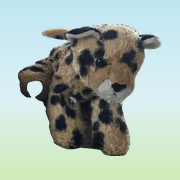
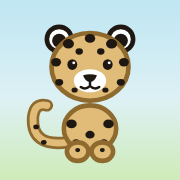
Draw the four toy friends as cartoon characters and use them across the game
Claude-Session: https://claude.ai/code/session_01LKDK9gHduBwxjC8Grk7QEw

diff --git a/games/app/index.html b/games/app/index.html
@@ -51,8 +51,10 @@ h1,h2{font-family:var(--display);font-weight:800;margin:0;line-height:1.05;text-
 /* home */
 #home{align-items:center;justify-content:center;text-align:center;gap:18px;background:linear-gradient(#BFE6F2,var(--sky) 55%,#CFEBB8)}
 #home .hero{font:88px/1 var(--emoji);white-space:nowrap;width:100%}
-.friends{display:block;margin:0 auto;width:min(100%,470px);height:auto;filter:drop-shadow(0 8px 6px rgba(31,48,68,.22))}
-.babyimg{height:52px;width:auto;max-width:none;display:block;margin-top:-8px;filter:drop-shadow(0 3px 2px rgba(31,48,68,.3))}
+#home .hero img{width:min(23vw,104px);height:min(23vw,104px);vertical-align:bottom}
+#home .hero img.baby{width:min(17vw,78px);height:min(17vw,78px)}
+.fox img.baby{width:50px;height:50px;display:block;margin-top:-6px}
+.summit img{width:46px;height:46px}
 #home h1{font-size:clamp(2.1rem,7.5vw,3.6rem);color:var(--fox-d)}
 #home p{margin:0;color:var(--soft);max-width:24ch}
 .menu{display:grid;grid-template-columns:1fr 1fr;gap:10px;width:min(100%,400px)}
@@ -228,8 +230,8 @@ h1,h2{font-family:var(--display);font-weight:800;margin:0;line-height:1.05;text-
 .vrow .round{width:46px;min-height:46px;font-size:1.1rem}
 .vrow.has{box-shadow:0 0 0 3px var(--leaf) inset}
 .vrow .rec-on{background:#E8556D;color:#fff;box-shadow:0 5px 0 #B73A50}
-img.bear,img.cheetah{width:1em;height:1em;vertical-align:-.14em}
-.tool img.bear,.tool img.cheetah{width:28px;height:28px;vertical-align:middle}
+img.bear,img.cheetah,img.deer,img.baby{width:1em;height:1em;vertical-align:-.14em}
+.tool img.bear,.tool img.cheetah,.tool img.deer,.tool img.baby{width:30px;height:30px;vertical-align:middle}
 .bankp{text-align:center;display:flex;flex-direction:column;align-items:center;gap:12px}
 .bankp h3{margin:0;font-size:1.4rem}
 .jar{display:flex;flex-wrap:wrap;justify-content:center;gap:6px;max-width:420px;font:34px/1 var(--emoji)}
@@ -244,7 +246,7 @@ img.bear,img.cheetah{width:1em;height:1em;vertical-align:-.14em}
 <body>
 <section class="screen" id="home">
   <button class="btn round" id="gear" aria-label="Settings for grown-ups">⚙</button>
-  <div class="hero" aria-hidden="true"><img class="friends" id="friends" src="friends.webp" alt=""></div>
+  <div class="hero" aria-hidden="true"><img class="cheetah" alt=""><img class="bear" alt=""><img class="deer" alt=""><img class="baby" alt=""></div>
   <h1>Baby Cheetah</h1>
   <p>Climb the trail. Play a game at every stop.</p>
   <div class="menu">
@@ -351,29 +353,43 @@ const sample=(a,n)=>shuffle(a).slice(0,n);
 const wait=ms=>new Promise(r=>setTimeout(r,ms));
 
 /* the two buddies are drawn here: a spotted cheetah and a white bear with light brown accents */
-/* the real baby cheetah, cut out of a photo of the toy: the trail marker */
[1 lines of base64/hex data omitted]
 const BEAR='bear';
 const CHEETAH='cheetah';
 /* each face is a list of shapes: ['e', cx, cy, rx, ry, fill, outline] or ['p', path, stroke, width], on a 100 x 100 sheet.
    The same list draws the picture on the page and on the game canvases. */
-const SPOT='#9C6A32',CH='#F6C458',CHO='#B5803F';
-const FACES={
- /* a sitting teddy bear: arms, round body with a tummy patch, feet with paw pads, small ears on top, a snout, and a bow */
- bear:[['e',28,66,7,10,'#FFFFFF','#C9A27A'],['e',72,66,7,10,'#FFFFFF','#C9A27A'],['e',50,72,20,19,'#FFFFFF','#C9A27A'],['e',50,74,11.5,12,'#F6E7D3'],
-  ['e',34,89,9.5,9.5,'#FFFFFF','#C9A27A'],['e',66,89,9.5,9.5,'#FFFFFF','#C9A27A'],['e',34,89,5.5,5.5,'#E8CBA8'],['e',66,89,5.5,5.5,'#E8CBA8'],
-  ['e',29,13,8.5,8.5,'#FFFFFF','#C9A27A'],['e',71,13,8.5,8.5,'#FFFFFF','#C9A27A'],['e',29,13,4.5,4.5,'#E8CBA8'],['e',71,13,4.5,4.5,'#E8CBA8'],['e',50,31,27,24,'#FFFFFF','#C9A27A'],
-  ['e',50,39,11,8.5,'#F6E7D3'],['f','M46 33.5Q50 31.8 54 33.5Q53 37.8 50 37.8Q47 37.8 46 33.5Z','#B5835A'],['p','M50 37.8v3M50 40.8q-3.2 3.6-6.2 1M50 40.8q3.2 3.6 6.2 1','#B5835A',1.8],
-  ['e',40,28.5,2.8,2.8,'#A87850'],['e',60,28.5,2.8,2.8,'#A87850'],
-  ['f','M50 55.5L39.5 50.5V60.5ZM50 55.5L60.5 50.5V60.5Z','#DDB98F','#B5835A',1.5],['e',50,55.5,3,3,'#C9A27A']],
- /* a sitting cheetah: curled tail, spotted body, front paws, then the head (drawn large and placed by the 'g' group) */
- cheetah:[['p','M66 84Q90 86 85 62',CHO,8],['p','M66 84Q90 86 85 62',CH,4.5],['e',85,62,3,3,'#8A5A2B'],['e',50,73,18,19,CH,CHO],['e',50,72,9,12,'#FFF4DC'],
-  ['e',36,68,2,2,SPOT],['e',64,68,2,2,SPOT],['e',35,78,2,2,SPOT],['e',65,78,2,2,SPOT],['e',41,90,7.5,6.5,CH,CHO],['e',59,90,7.5,6.5,CH,CHO],
-  ['g',20,-2.6,.6,[['e',24,27,14,14,CH,CHO],['e',76,27,14,14,CH,CHO],['e',24,27,7,7,'#FBE3B0'],['e',76,27,7,7,'#FBE3B0'],['e',50,56,40,36,CH,CHO],
-  ['e',38,31,2.6,2.6,SPOT],['e',50,27,2.6,2.6,SPOT],['e',62,31,2.6,2.6,SPOT],['e',44,38,2.4,2.4,SPOT],['e',56,38,2.4,2.4,SPOT],
-  ['e',19,52,2.6,2.6,SPOT],['e',81,52,2.6,2.6,SPOT],['e',18,63,2.4,2.4,SPOT],['e',82,63,2.4,2.4,SPOT],['e',25,75,2.4,2.4,SPOT],['e',75,75,2.4,2.4,SPOT],
-  ['e',50,70,18,13,'#FFF4DC'],['p','M37 55Q32 65 37 75M63 55Q68 65 63 75','#8A5A2B',3],['e',50,63,6.5,4.5,'#8A5A2B'],['p','M50 67v5M50 72q-6 6-11 1M50 72q6 6 11 1','#8A5A2B',2.5],
-  ['e',34,50,4.5,4.5,'#7A4E24'],['e',66,50,4.5,4.5,'#7A4E24']]]]};
+/* The four friends, drawn from the real toys: Big Cheetah (mustard fur, dark spots, cream ears, brown muzzle, white chin and chest),
+   Teddy (cream and fluffy, big dark-brown nose, bead eyes), Deer (tan, white eye patches and muzzle, wide ears, two little horn nubs)
+   and Baby Cheetah (pale tan, bold black spots, black-and-white ears, curled tail). */
+const INK='#1F1712',CRM='#FFF6E0';
+const nose=(y,c)=>['f',`M45.5 ${y}Q50 ${y-1.6} 54.5 ${y}Q53 ${y+4.4} 50 ${y+4.4}Q47 ${y+4.4} 45.5 ${y}Z`,c],
+  smile=(y,c,w)=>['p',`M50 ${y}v2.4M50 ${y+2.4}q-3 3-6 .8M50 ${y+2.4}q3 3 6 .8`,c,w||1.6],
+  eyes=(x,y,r)=>[['e',50-x,y,r,r*1.08,INK],['e',50+x,y,r,r*1.08,INK],['e',50-x+r*.3,y-r*.35,r*.3,r*.3,'#fff'],['e',50+x+r*.3,y-r*.35,r*.3,r*.3,'#fff']],
+  dots=(c,l)=>l.map(([x,y,r])=>['e',x,y,r,r*.85,c]);
+const FACES=(()=>{const M='#D9A93A',MO='#8A6218',SP='#3B2A1A',F='#EADBC2',FO='#B79D78',T='#C99F68',TO='#8C6A3C',B='#E0BC78',BO='#8F6A2E';
+ return{
+ cheetah:[['p','M66 86Q90 87 87 66',MO,8],['p','M66 86Q90 87 87 66',M,4.5],['e',87,66,3,3,SP],
+  ['e',50,72,19,20,M,MO],['e',50,63,12,9,CRM],...dots(SP,[[35,71,2.8],[65,71,2.8],[37,81,2.4],[63,81,2.4],[50,80,2.2]]),
+  ['e',41,89,7.5,7,M,MO],['e',59,89,7.5,7,M,MO],...dots(SP,[[39,88,1.5],[61,88,1.5]]),
+  ['e',29,13,8,8,CRM,INK],['e',71,13,8,8,CRM,INK],['e',50,32,27,23,M,MO],
+  ...dots(SP,[[38,15,2.6],[50,12.5,2.6],[62,15,2.6],[44,21,2.2],[56,21,2.2],[27,29,2.6],[73,29,2.6],[26,40,2.2],[74,40,2.2],[32,47,2],[68,47,2]]),
+  ['e',50,46.5,10,6,CRM],['e',50,39.5,11.5,7.5,'#B98348'],nose(38.5,INK),smile(42.9,INK),...eyes(13,30,3.4)],
+ bear:[['e',28,66,7.5,10,F,FO],['e',72,66,7.5,10,F,FO],['e',50,72,20,19,F,FO],['e',50,74,11,11,'#F4EAD8'],
+  ['e',34,89,9.5,9,F,FO],['e',66,89,9.5,9,F,FO],['e',34,90,5,4.5,'#DCC6A4'],['e',66,90,5,4.5,'#DCC6A4'],
+  ['e',29,13,8.5,8.5,F,FO],['e',71,13,8.5,8.5,F,FO],['e',29,13,4.5,4.5,'#DCC6A4'],['e',71,13,4.5,4.5,'#DCC6A4'],['e',50,31,27,24,F,FO],
+  ['p','M38 10q3-3 6 0M47 8q3-3 6 0M56 10q3-3 6 0M26 26q-2 3 0 6M74 26q2 3 0 6',FO,1.4],
+  ['e',50,40,12.5,9.5,'#F4EAD8'],['e',50,37,7,5.4,'#4B352B'],['e',48,35.6,1.8,1.1,'#7A5F52'],smile(42.4,'#4B352B'),...eyes(7.5,26.5,2.3)],
+ deer:[['e',33,80,8,10,T,TO],['e',67,80,8,10,T,TO],['e',50,69,16,17,T,TO],['e',50,66,8,9,'#DDBB8A'],
+  ['e',42,84,5.2,12,T,TO],['e',58,84,5.2,12,T,TO],['e',42,95,5.4,3.2,'#6B4A38'],['e',58,95,5.4,3.2,'#6B4A38'],
+  ['f','M31 24Q11 5 2 13Q7 29 29 32Z',T,TO,3],['f','M69 24Q89 5 98 13Q93 29 71 32Z',T,TO,3],['f','M27 24Q14 12 7 15Q11 25 26 28Z','#F3EAF4'],['f','M73 24Q86 12 93 15Q89 25 74 28Z','#F3EAF4'],
+  ['e',44,9,2.6,4,'#B79A78',TO],['e',56,9,2.6,4,'#B79A78',TO],['e',50,31,22,22,T,TO],
+  ['e',39,30,7.5,8.5,'#fff'],['e',61,30,7.5,8.5,'#fff'],['e',50,42,11.5,9,'#fff'],['e',31,40,3,1.8,'#F4C6BC'],['e',69,40,3,1.8,'#F4C6BC'],
+  ['e',50,38,3.8,2.9,'#8A5E48'],smile(40.6,'#8A5E48',1.4),...eyes(10.5,30.5,3.1)],
+ baby:[['p','M35 84Q12 87 13 68Q14 58 22 60',BO,8],['p','M35 84Q12 87 13 68Q14 58 22 60',B,4.5],...dots(INK,[[15,74,1.8],[20,84,1.8]]),
+  ['e',50,75,17,15,B,BO],...dots(INK,[[38,72,3.4],[62,72,3.4],[50,79,3],[41,84,2.4],[59,84,2.4]]),
+  ['e',42,90,7,6,B,BO],['e',58,90,7,6,B,BO],...dots(INK,[[42,89,1.6],[58,89,1.6]]),
+  ['e',30,17,8,8,'#fff',INK],['e',70,17,8,8,'#fff',INK],['e',30,18,4.6,4.6,INK],['e',70,18,4.6,4.6,INK],['e',50,35,25,22,B,BO],
+  ...dots(INK,[[36,20,3.6],[50,16.5,3.4],[64,20,3.6],[28,32,3.2],[72,32,3.2],[43,25,2.4],[57,25,2.4],[30,45,2.6],[70,45,2.6],[40,50,2],[60,50,2]]),
+  ['e',50,44,10.5,7.5,'#fff'],nose(40.5,INK),smile(44.9,INK),...eyes(11.5,33.5,3.2)]}})();
 /* two more shape kinds: ['f', path, fill, outline, width] is a filled path, ['g', x, y, scale, shapes] places a group */
 const svgOps=l=>l.map(o=>o[0]==='e'
   ?`<ellipse cx="${o[1]}" cy="${o[2]}" rx="${o[3]}" ry="${o[4]}" fill="${o[5]}"${o[6]?` stroke="${o[6]}" stroke-width="3"`:''}/>`
@@ -389,10 +405,8 @@ function drawOps(x,l){for(const o of l){
 function drawFace(x,k,cx,cy,size){x.save();x.translate(cx-size/2,cy-size/2);x.scale(size/100,size/100);drawOps(x,FACES[k]);x.restore()}
 const faceEl=k=>{const i=el('img',k);i.src=faceUrl(k);i.alt='';return i};
 const icon=(n,e)=>{n.textContent='';if(FACES[e])n.append(faceEl(e));else n.textContent=e;return n};
-const buddy=n=>{n.append(faceEl(CHEETAH),faceEl(BEAR));return n};
-document.querySelectorAll('img.bear,img.cheetah').forEach(i=>i.src=faceUrl(i.className));
-/* if the photo of the four friends cannot load, show the drawn buddies instead */
-{const f=document.getElementById('friends');if(f)f.onerror=()=>{const h=f.parentNode;h.textContent='';buddy(h)}}
+const buddy=n=>{n.append(faceEl(CHEETAH),faceEl(BEAR),faceEl('deer'),faceEl('baby'));return n};
+document.querySelectorAll('img.bear,img.cheetah,img.deer,img.baby').forEach(i=>i.src=faceUrl(i.className));
 
 /* ---------- saved progress (this device only) ---------- */
 const KEY='little-fox-trail-v1';
@@ -592,7 +606,7 @@ maze(a,d,w,win){const n=[5,6,7,8,9][d],DX=[0,1,0,-1],DY=[-1,0,1,0],open=[...Arra
     x.strokeStyle='#1F3044';x.lineWidth=Math.max(3,s*.08);x.lineCap='round';x.beginPath();
     for(let c=0;c<n*n;c++){const px=(c%n)*s,py=(c/n|0)*s;if(!open[c][0]){x.moveTo(px,py);x.lineTo(px+s,py)}if(!open[c][3]){x.moveTo(px,py);x.lineTo(px,py+s)}
       if(!open[c][1]){x.moveTo(px+s,py);x.lineTo(px+s,py+s)}if(!open[c][2]){x.moveTo(px,py+s);x.lineTo(px+s,py+s)}}x.stroke();
-    x.font=`${s*.6}px serif`;x.textAlign='center';x.textBaseline='middle';drawFace(x,BEAR,(end%n+.5)*s,((end/n|0)+.5)*s,s*.9);drawFace(x,CHEETAH,(pos%n+.5)*s,((pos/n|0)+.5)*s,s*.9)};
+    x.font=`${s*.6}px serif`;x.textAlign='center';x.textBaseline='middle';drawFace(x,BEAR,(end%n+.5)*s,((end/n|0)+.5)*s,s*.9);drawFace(x,'baby',(pos%n+.5)*s,((pos/n|0)+.5)*s,s*.9)};
   const path=(from,to)=>{const prev={[from]:-1},q=[from];while(q.length){const c=q.shift();if(c===to){const p=[];for(let k=c;k!==from;k=prev[k])p.unshift(k);return p}
     for(let k=0;k<4;k++)if(open[c][k]){const nc=c+DX[k]+DY[k]*n;if(!(nc in prev)){prev[nc]=c;q.push(nc)}}}return[]};
   const go=to=>{if(over||to<0||to>=n*n)return;const p=path(pos,to);if(!p.length||p.length>3)return;p.forEach(c=>trail.add(c));pos=to;sfx.note(trail.size);draw();if(pos===end){over=true;win()}};
@@ -715,7 +729,7 @@ function easel(host,{done,studio}){const wrap=el('div','easel'),sheet=el('div','
   tool('Eraser','🧽',()=>{mode='erase';stampRow.hidden=true;mark()}).dataset.m='erase';
   tool('Mirror drawing','🦋',()=>{mirror=!mirror;mark()}).dataset.m='mirror';
   const stampBtn=tool('Stickers',stamp,()=>{if(mode==='stamp'&&stampRow.hidden){mode='pen'}else if(mode==='stamp'){stampRow.hidden=true}else{mode='stamp';stampRow.hidden=false}colorRow.hidden=guideRow.hidden=true;mark()});stampBtn.dataset.m='stamp';
-  [...new Set(['⭐','❤',CHEETAH,BEAR,...S.done.map(stickerOf)])].forEach(e=>{const b=icon(el('button','tool'),e);b.onclick=()=>{stamp=e;icon(stampBtn,e);mode='stamp';stampRow.hidden=true;sfx.tap();mark()};stampRow.append(b)});
+  [...new Set(['⭐','❤',CHEETAH,BEAR,'deer','baby',...S.done.map(stickerOf)])].forEach(e=>{const b=icon(el('button','tool'),e);b.onclick=()=>{stamp=e;icon(stampBtn,e);mode='stamp';stampRow.hidden=true;sfx.tap();mark()};stampRow.append(b)});
   tool('Undo','↩',()=>{const u=undo.pop();if(u)x.putImageData(u,0,0)});
   tool('Clear the page','🗑',()=>{snap();x.fillStyle='#fff';x.fillRect(0,0,cv.width,cv.height)});
   let doneBtn=null;
@@ -756,7 +770,7 @@ function openMap(){show('map');const STEP=104,H=N*STEP+170,y=i=>H-90-i*STEP,xp=t
   for(let i=0;i<N;i++){const t=WORLDS[i>>3].types[i&7],b=el('button','node',S.done.includes(i)?stickerOf(i):TYPES[t]),lock=i>cur&&!S.open;
     b.style.left=xp(i)+'%';b.style.top=y(i)+'px';b.setAttribute('aria-label',`Stop ${i+1}: ${NAMES[t]}`);
     if(S.done.includes(i))b.classList.add('done');if(lock){b.classList.add('lock');b.disabled=true}
-    if(i===cur){b.classList.add('cur');{const m=el('img','babyimg');m.src=BABY;m.alt='';const f=el('span','fox');f.append(m);b.append(f)}}
+    if(i===cur){b.classList.add('cur');{const f=el('span','fox');f.append(faceEl('baby'));b.append(f)}}
     b.onclick=()=>{sfx.tap();startLevel(i)};T.append(b)}
   $('#starCount').textContent='⭐ '+avail();
   const sc=$('#mapScroll');sc.scrollTop=y(Math.min(cur,N-1))-sc.clientHeight/2}
@@ -935,7 +949,7 @@ if(hot&&hot.ready)hot.ready(boot);else boot((hot&&hot.data)||{});
 (function(){
   if(!('serviceWorker' in navigator)||!/^https?:/.test(location.protocol))return;
   navigator.serviceWorker.register('sw.js').catch(function(){});
-  var MINE='72cfee8c7b',last=0;
+  var MINE='a924c8fa55',last=0;
   function check(){
     if(Date.now()-last<60000)return;last=Date.now();
     fetch('version.json?t='+Date.now(),{cache:'no-store'}).then(function(r){return r.json()}).then(function(j){

diff --git a/games/little-fox-trail.html b/games/little-fox-trail.html
@@ -37,8 +37,10 @@ h1,h2{font-family:var(--display);font-weight:800;margin:0;line-height:1.05;text-
 /* home */
 #home{align-items:center;justify-content:center;text-align:center;gap:18px;background:linear-gradient(#BFE6F2,var(--sky) 55%,#CFEBB8)}
 #home .hero{font:88px/1 var(--emoji);white-space:nowrap;width:100%}
-.friends{display:block;margin:0 auto;width:min(100%,470px);height:auto;filter:drop-shadow(0 8px 6px rgba(31,48,68,.22))}
-.babyimg{height:52px;width:auto;max-width:none;display:block;margin-top:-8px;filter:drop-shadow(0 3px 2px rgba(31,48,68,.3))}
+#home .hero img{width:min(23vw,104px);height:min(23vw,104px);vertical-align:bottom}
+#home .hero img.baby{width:min(17vw,78px);height:min(17vw,78px)}
+.fox img.baby{width:50px;height:50px;display:block;margin-top:-6px}
+.summit img{width:46px;height:46px}
 #home h1{font-size:clamp(2.1rem,7.5vw,3.6rem);color:var(--fox-d)}
 #home p{margin:0;color:var(--soft);max-width:24ch}
 .menu{display:grid;grid-template-columns:1fr 1fr;gap:10px;width:min(100%,400px)}
@@ -214,8 +216,8 @@ h1,h2{font-family:var(--display);font-weight:800;margin:0;line-height:1.05;text-
 .vrow .round{width:46px;min-height:46px;font-size:1.1rem}
 .vrow.has{box-shadow:0 0 0 3px var(--leaf) inset}
 .vrow .rec-on{background:#E8556D;color:#fff;box-shadow:0 5px 0 #B73A50}
-img.bear,img.cheetah{width:1em;height:1em;vertical-align:-.14em}
-.tool img.bear,.tool img.cheetah{width:28px;height:28px;vertical-align:middle}
+img.bear,img.cheetah,img.deer,img.baby{width:1em;height:1em;vertical-align:-.14em}
+.tool img.bear,.tool img.cheetah,.tool img.deer,.tool img.baby{width:30px;height:30px;vertical-align:middle}
 .bankp{text-align:center;display:flex;flex-direction:column;align-items:center;gap:12px}
 .bankp h3{margin:0;font-size:1.4rem}
 .jar{display:flex;flex-wrap:wrap;justify-content:center;gap:6px;max-width:420px;font:34px/1 var(--emoji)}
@@ -228,7 +230,7 @@ img.bear,img.cheetah{width:1em;height:1em;vertical-align:-.14em}
 
 <section class="screen" id="home">
   <button class="btn round" id="gear" aria-label="Settings for grown-ups">⚙</button>
-  <div class="hero" aria-hidden="true"><img class="friends" id="friends" src="friends.webp" alt=""></div>
+  <div class="hero" aria-hidden="true"><img class="cheetah" alt=""><img class="bear" alt=""><img class="deer" alt=""><img class="baby" alt=""></div>
   <h1>Baby Cheetah</h1>
   <p>Climb the trail. Play a game at every stop.</p>
   <div class="menu">
@@ -335,29 +337,43 @@ const sample=(a,n)=>shuffle(a).slice(0,n);
 const wait=ms=>new Promise(r=>setTimeout(r,ms));
 
 /* the two buddies are drawn here: a spotted cheetah and a white bear with light brown accents */
-/* the real baby cheetah, cut out of a photo of the toy: the trail marker */
[1 lines of base64/hex data omitted]
 const BEAR='bear';
 const CHEETAH='cheetah';
 /* each face is a list of shapes: ['e', cx, cy, rx, ry, fill, outline] or ['p', path, stroke, width], on a 100 x 100 sheet.
    The same list draws the picture on the page and on the game canvases. */
-const SPOT='#9C6A32',CH='#F6C458',CHO='#B5803F';
-const FACES={
- /* a sitting teddy bear: arms, round body with a tummy patch, feet with paw pads, small ears on top, a snout, and a bow */
- bear:[['e',28,66,7,10,'#FFFFFF','#C9A27A'],['e',72,66,7,10,'#FFFFFF','#C9A27A'],['e',50,72,20,19,'#FFFFFF','#C9A27A'],['e',50,74,11.5,12,'#F6E7D3'],
-  ['e',34,89,9.5,9.5,'#FFFFFF','#C9A27A'],['e',66,89,9.5,9.5,'#FFFFFF','#C9A27A'],['e',34,89,5.5,5.5,'#E8CBA8'],['e',66,89,5.5,5.5,'#E8CBA8'],
-  ['e',29,13,8.5,8.5,'#FFFFFF','#C9A27A'],['e',71,13,8.5,8.5,'#FFFFFF','#C9A27A'],['e',29,13,4.5,4.5,'#E8CBA8'],['e',71,13,4.5,4.5,'#E8CBA8'],['e',50,31,27,24,'#FFFFFF','#C9A27A'],
-  ['e',50,39,11,8.5,'#F6E7D3'],['f','M46 33.5Q50 31.8 54 33.5Q53 37.8 50 37.8Q47 37.8 46 33.5Z','#B5835A'],['p','M50 37.8v3M50 40.8q-3.2 3.6-6.2 1M50 40.8q3.2 3.6 6.2 1','#B5835A',1.8],
-  ['e',40,28.5,2.8,2.8,'#A87850'],['e',60,28.5,2.8,2.8,'#A87850'],
-  ['f','M50 55.5L39.5 50.5V60.5ZM50 55.5L60.5 50.5V60.5Z','#DDB98F','#B5835A',1.5],['e',50,55.5,3,3,'#C9A27A']],
- /* a sitting cheetah: curled tail, spotted body, front paws, then the head (drawn large and placed by the 'g' group) */
- cheetah:[['p','M66 84Q90 86 85 62',CHO,8],['p','M66 84Q90 86 85 62',CH,4.5],['e',85,62,3,3,'#8A5A2B'],['e',50,73,18,19,CH,CHO],['e',50,72,9,12,'#FFF4DC'],
-  ['e',36,68,2,2,SPOT],['e',64,68,2,2,SPOT],['e',35,78,2,2,SPOT],['e',65,78,2,2,SPOT],['e',41,90,7.5,6.5,CH,CHO],['e',59,90,7.5,6.5,CH,CHO],
-  ['g',20,-2.6,.6,[['e',24,27,14,14,CH,CHO],['e',76,27,14,14,CH,CHO],['e',24,27,7,7,'#FBE3B0'],['e',76,27,7,7,'#FBE3B0'],['e',50,56,40,36,CH,CHO],
-  ['e',38,31,2.6,2.6,SPOT],['e',50,27,2.6,2.6,SPOT],['e',62,31,2.6,2.6,SPOT],['e',44,38,2.4,2.4,SPOT],['e',56,38,2.4,2.4,SPOT],
-  ['e',19,52,2.6,2.6,SPOT],['e',81,52,2.6,2.6,SPOT],['e',18,63,2.4,2.4,SPOT],['e',82,63,2.4,2.4,SPOT],['e',25,75,2.4,2.4,SPOT],['e',75,75,2.4,2.4,SPOT],
-  ['e',50,70,18,13,'#FFF4DC'],['p','M37 55Q32 65 37 75M63 55Q68 65 63 75','#8A5A2B',3],['e',50,63,6.5,4.5,'#8A5A2B'],['p','M50 67v5M50 72q-6 6-11 1M50 72q6 6 11 1','#8A5A2B',2.5],
-  ['e',34,50,4.5,4.5,'#7A4E24'],['e',66,50,4.5,4.5,'#7A4E24']]]]};
+/* The four friends, drawn from the real toys: Big Cheetah (mustard fur, dark spots, cream ears, brown muzzle, white chin and chest),
+   Teddy (cream and fluffy, big dark-brown nose, bead eyes), Deer (tan, white eye patches and muzzle, wide ears, two little horn nubs)
+   and Baby Cheetah (pale tan, bold black spots, black-and-white ears, curled tail). */
+const INK='#1F1712',CRM='#FFF6E0';
+const nose=(y,c)=>['f',`M45.5 ${y}Q50 ${y-1.6} 54.5 ${y}Q53 ${y+4.4} 50 ${y+4.4}Q47 ${y+4.4} 45.5 ${y}Z`,c],
+  smile=(y,c,w)=>['p',`M50 ${y}v2.4M50 ${y+2.4}q-3 3-6 .8M50 ${y+2.4}q3 3 6 .8`,c,w||1.6],
+  eyes=(x,y,r)=>[['e',50-x,y,r,r*1.08,INK],['e',50+x,y,r,r*1.08,INK],['e',50-x+r*.3,y-r*.35,r*.3,r*.3,'#fff'],['e',50+x+r*.3,y-r*.35,r*.3,r*.3,'#fff']],
+  dots=(c,l)=>l.map(([x,y,r])=>['e',x,y,r,r*.85,c]);
+const FACES=(()=>{const M='#D9A93A',MO='#8A6218',SP='#3B2A1A',F='#EADBC2',FO='#B79D78',T='#C99F68',TO='#8C6A3C',B='#E0BC78',BO='#8F6A2E';
+ return{
+ cheetah:[['p','M66 86Q90 87 87 66',MO,8],['p','M66 86Q90 87 87 66',M,4.5],['e',87,66,3,3,SP],
+  ['e',50,72,19,20,M,MO],['e',50,63,12,9,CRM],...dots(SP,[[35,71,2.8],[65,71,2.8],[37,81,2.4],[63,81,2.4],[50,80,2.2]]),
+  ['e',41,89,7.5,7,M,MO],['e',59,89,7.5,7,M,MO],...dots(SP,[[39,88,1.5],[61,88,1.5]]),
+  ['e',29,13,8,8,CRM,INK],['e',71,13,8,8,CRM,INK],['e',50,32,27,23,M,MO],
+  ...dots(SP,[[38,15,2.6],[50,12.5,2.6],[62,15,2.6],[44,21,2.2],[56,21,2.2],[27,29,2.6],[73,29,2.6],[26,40,2.2],[74,40,2.2],[32,47,2],[68,47,2]]),
+  ['e',50,46.5,10,6,CRM],['e',50,39.5,11.5,7.5,'#B98348'],nose(38.5,INK),smile(42.9,INK),...eyes(13,30,3.4)],
+ bear:[['e',28,66,7.5,10,F,FO],['e',72,66,7.5,10,F,FO],['e',50,72,20,19,F,FO],['e',50,74,11,11,'#F4EAD8'],
+  ['e',34,89,9.5,9,F,FO],['e',66,89,9.5,9,F,FO],['e',34,90,5,4.5,'#DCC6A4'],['e',66,90,5,4.5,'#DCC6A4'],
+  ['e',29,13,8.5,8.5,F,FO],['e',71,13,8.5,8.5,F,FO],['e',29,13,4.5,4.5,'#DCC6A4'],['e',71,13,4.5,4.5,'#DCC6A4'],['e',50,31,27,24,F,FO],
+  ['p','M38 10q3-3 6 0M47 8q3-3 6 0M56 10q3-3 6 0M26 26q-2 3 0 6M74 26q2 3 0 6',FO,1.4],
+  ['e',50,40,12.5,9.5,'#F4EAD8'],['e',50,37,7,5.4,'#4B352B'],['e',48,35.6,1.8,1.1,'#7A5F52'],smile(42.4,'#4B352B'),...eyes(7.5,26.5,2.3)],
+ deer:[['e',33,80,8,10,T,TO],['e',67,80,8,10,T,TO],['e',50,69,16,17,T,TO],['e',50,66,8,9,'#DDBB8A'],
+  ['e',42,84,5.2,12,T,TO],['e',58,84,5.2,12,T,TO],['e',42,95,5.4,3.2,'#6B4A38'],['e',58,95,5.4,3.2,'#6B4A38'],
+  ['f','M31 24Q11 5 2 13Q7 29 29 32Z',T,TO,3],['f','M69 24Q89 5 98 13Q93 29 71 32Z',T,TO,3],['f','M27 24Q14 12 7 15Q11 25 26 28Z','#F3EAF4'],['f','M73 24Q86 12 93 15Q89 25 74 28Z','#F3EAF4'],
+  ['e',44,9,2.6,4,'#B79A78',TO],['e',56,9,2.6,4,'#B79A78',TO],['e',50,31,22,22,T,TO],
+  ['e',39,30,7.5,8.5,'#fff'],['e',61,30,7.5,8.5,'#fff'],['e',50,42,11.5,9,'#fff'],['e',31,40,3,1.8,'#F4C6BC'],['e',69,40,3,1.8,'#F4C6BC'],
+  ['e',50,38,3.8,2.9,'#8A5E48'],smile(40.6,'#8A5E48',1.4),...eyes(10.5,30.5,3.1)],
+ baby:[['p','M35 84Q12 87 13 68Q14 58 22 60',BO,8],['p','M35 84Q12 87 13 68Q14 58 22 60',B,4.5],...dots(INK,[[15,74,1.8],[20,84,1.8]]),
+  ['e',50,75,17,15,B,BO],...dots(INK,[[38,72,3.4],[62,72,3.4],[50,79,3],[41,84,2.4],[59,84,2.4]]),
+  ['e',42,90,7,6,B,BO],['e',58,90,7,6,B,BO],...dots(INK,[[42,89,1.6],[58,89,1.6]]),
+  ['e',30,17,8,8,'#fff',INK],['e',70,17,8,8,'#fff',INK],['e',30,18,4.6,4.6,INK],['e',70,18,4.6,4.6,INK],['e',50,35,25,22,B,BO],
+  ...dots(INK,[[36,20,3.6],[50,16.5,3.4],[64,20,3.6],[28,32,3.2],[72,32,3.2],[43,25,2.4],[57,25,2.4],[30,45,2.6],[70,45,2.6],[40,50,2],[60,50,2]]),
+  ['e',50,44,10.5,7.5,'#fff'],nose(40.5,INK),smile(44.9,INK),...eyes(11.5,33.5,3.2)]}})();
 /* two more shape kinds: ['f', path, fill, outline, width] is a filled path, ['g', x, y, scale, shapes] places a group */
 const svgOps=l=>l.map(o=>o[0]==='e'
   ?`<ellipse cx="${o[1]}" cy="${o[2]}" rx="${o[3]}" ry="${o[4]}" fill="${o[5]}"${o[6]?` stroke="${o[6]}" stroke-width="3"`:''}/>`
@@ -373,10 +389,8 @@ function drawOps(x,l){for(const o of l){
 function drawFace(x,k,cx,cy,size){x.save();x.translate(cx-size/2,cy-size/2);x.scale(size/100,size/100);drawOps(x,FACES[k]);x.restore()}
 const faceEl=k=>{const i=el('img',k);i.src=faceUrl(k);i.alt='';return i};
 const icon=(n,e)=>{n.textContent='';if(FACES[e])n.append(faceEl(e));else n.textContent=e;return n};
-const buddy=n=>{n.append(faceEl(CHEETAH),faceEl(BEAR));return n};
-document.querySelectorAll('img.bear,img.cheetah').forEach(i=>i.src=faceUrl(i.className));
-/* if the photo of the four friends cannot load, show the drawn buddies instead */
-{const f=document.getElementById('friends');if(f)f.onerror=()=>{const h=f.parentNode;h.textContent='';buddy(h)}}
+const buddy=n=>{n.append(faceEl(CHEETAH),faceEl(BEAR),faceEl('deer'),faceEl('baby'));return n};
+document.querySelectorAll('img.bear,img.cheetah,img.deer,img.baby').forEach(i=>i.src=faceUrl(i.className));
 
 /* ---------- saved progress (this device only) ---------- */
 const KEY='little-fox-trail-v1';
@@ -576,7 +590,7 @@ maze(a,d,w,win){const n=[5,6,7,8,9][d],DX=[0,1,0,-1],DY=[-1,0,1,0],open=[...Arra
     x.strokeStyle='#1F3044';x.lineWidth=Math.max(3,s*.08);x.lineCap='round';x.beginPath();
     for(let c=0;c<n*n;c++){const px=(c%n)*s,py=(c/n|0)*s;if(!open[c][0]){x.moveTo(px,py);x.lineTo(px+s,py)}if(!open[c][3]){x.moveTo(px,py);x.lineTo(px,py+s)}
       if(!open[c][1]){x.moveTo(px+s,py);x.lineTo(px+s,py+s)}if(!open[c][2]){x.moveTo(px,py+s);x.lineTo(px+s,py+s)}}x.stroke();
-    x.font=`${s*.6}px serif`;x.textAlign='center';x.textBaseline='middle';drawFace(x,BEAR,(end%n+.5)*s,((end/n|0)+.5)*s,s*.9);drawFace(x,CHEETAH,(pos%n+.5)*s,((pos/n|0)+.5)*s,s*.9)};
+    x.font=`${s*.6}px serif`;x.textAlign='center';x.textBaseline='middle';drawFace(x,BEAR,(end%n+.5)*s,((end/n|0)+.5)*s,s*.9);drawFace(x,'baby',(pos%n+.5)*s,((pos/n|0)+.5)*s,s*.9)};
   const path=(from,to)=>{const prev={[from]:-1},q=[from];while(q.length){const c=q.shift();if(c===to){const p=[];for(let k=c;k!==from;k=prev[k])p.unshift(k);return p}
     for(let k=0;k<4;k++)if(open[c][k]){const nc=c+DX[k]+DY[k]*n;if(!(nc in prev)){prev[nc]=c;q.push(nc)}}}return[]};
   const go=to=>{if(over||to<0||to>=n*n)return;const p=path(pos,to);if(!p.length||p.length>3)return;p.forEach(c=>trail.add(c));pos=to;sfx.note(trail.size);draw();if(pos===end){over=true;win()}};
@@ -699,7 +713,7 @@ function easel(host,{done,studio}){const wrap=el('div','easel'),sheet=el('div','
   tool('Eraser','🧽',()=>{mode='erase';stampRow.hidden=true;mark()}).dataset.m='erase';
   tool('Mirror drawing','🦋',()=>{mirror=!mirror;mark()}).dataset.m='mirror';
   const stampBtn=tool('Stickers',stamp,()=>{if(mode==='stamp'&&stampRow.hidden){mode='pen'}else if(mode==='stamp'){stampRow.hidden=true}else{mode='stamp';stampRow.hidden=false}colorRow.hidden=guideRow.hidden=true;mark()});stampBtn.dataset.m='stamp';
-  [...new Set(['⭐','❤',CHEETAH,BEAR,...S.done.map(stickerOf)])].forEach(e=>{const b=icon(el('button','tool'),e);b.onclick=()=>{stamp=e;icon(stampBtn,e);mode='stamp';stampRow.hidden=true;sfx.tap();mark()};stampRow.append(b)});
+  [...new Set(['⭐','❤',CHEETAH,BEAR,'deer','baby',...S.done.map(stickerOf)])].forEach(e=>{const b=icon(el('button','tool'),e);b.onclick=()=>{stamp=e;icon(stampBtn,e);mode='stamp';stampRow.hidden=true;sfx.tap();mark()};stampRow.append(b)});
   tool('Undo','↩',()=>{const u=undo.pop();if(u)x.putImageData(u,0,0)});
   tool('Clear the page','🗑',()=>{snap();x.fillStyle='#fff';x.fillRect(0,0,cv.width,cv.height)});
   let doneBtn=null;
@@ -740,7 +754,7 @@ function openMap(){show('map');const STEP=104,H=N*STEP+170,y=i=>H-90-i*STEP,xp=t
   for(let i=0;i<N;i++){const t=WORLDS[i>>3].types[i&7],b=el('button','node',S.done.includes(i)?stickerOf(i):TYPES[t]),lock=i>cur&&!S.open;
     b.style.left=xp(i)+'%';b.style.top=y(i)+'px';b.setAttribute('aria-label',`Stop ${i+1}: ${NAMES[t]}`);
     if(S.done.includes(i))b.classList.add('done');if(lock){b.classList.add('lock');b.disabled=true}
-    if(i===cur){b.classList.add('cur');{const m=el('img','babyimg');m.src=BABY;m.alt='';const f=el('span','fox');f.append(m);b.append(f)}}
+    if(i===cur){b.classList.add('cur');{const f=el('span','fox');f.append(faceEl('baby'));b.append(f)}}
     b.onclick=()=>{sfx.tap();startLevel(i)};T.append(b)}
   $('#starCount').textContent='⭐ '+avail();
   const sc=$('#mapScroll');sc.scrollTop=y(Math.min(cur,N-1))-sc.clientHeight/2}

diff --git a/games/build-app.js b/games/build-app.js
@@ -73,7 +73,7 @@ const manifest = {
 
 const sw = `/* Baby Cheetah offline support. Game files: newest from the internet first, saved copy when offline. */
 const CACHE='cbt-cache-v1';
-const SHELL=['./','voice.json','friends.webp','manifest.webmanifest','icon-180.png','icon-192.png','icon-512.png'];
+const SHELL=['./','voice.json','manifest.webmanifest','icon-180.png','icon-192.png','icon-512.png'];
 self.addEventListener('install',e=>{self.skipWaiting();e.waitUntil(caches.open(CACHE).then(c=>c.addAll(SHELL)).catch(()=>{}))});
 self.addEventListener('activate',e=>e.waitUntil(self.clients.claim()));
 const keep=(req,res)=>{if(res&&(res.ok||res.type==='opaque')){const cp=res.clone();caches.open(CACHE).then(c=>c.put(req,cp)).catch(()=>{})}return res};
@@ -92,8 +92,6 @@ self.addEventListener('fetch',e=>{
 });
 `;
 
-/* the photo of the four friends for the home screen */
-if (fs.existsSync(path.join(__dirname, 'friends.webp'))) fs.copyFileSync(path.join(__dirname, 'friends.webp'), path.join(out, 'friends.webp'));
 /* the built-in voice clips, one file beside the page */
 if (fs.existsSync(path.join(__dirname, 'voice.json'))) fs.copyFileSync(path.join(__dirname, 'voice.json'), path.join(out, 'voice.json'));
 fs.writeFileSync(path.join(out, 'index.html'), html);

diff --git a/games/app/sw.js b/games/app/sw.js
@@ -1,6 +1,6 @@
 /* Baby Cheetah offline support. Game files: newest from the internet first, saved copy when offline. */
 const CACHE='cbt-cache-v1';
-const SHELL=['./','voice.json','friends.webp','manifest.webmanifest','icon-180.png','icon-192.png','icon-512.png'];
+const SHELL=['./','voice.json','manifest.webmanifest','icon-180.png','icon-192.png','icon-512.png'];
 self.addEventListener('install',e=>{self.skipWaiting();e.waitUntil(caches.open(CACHE).then(c=>c.addAll(SHELL)).catch(()=>{}))});
 self.addEventListener('activate',e=>e.waitUntil(self.clients.claim()));
 const keep=(req,res)=>{if(res&&(res.ok||res.type==='opaque')){const cp=res.clone();caches.open(CACHE).then(c=>c.put(req,cp)).catch(()=>{})}return res};
